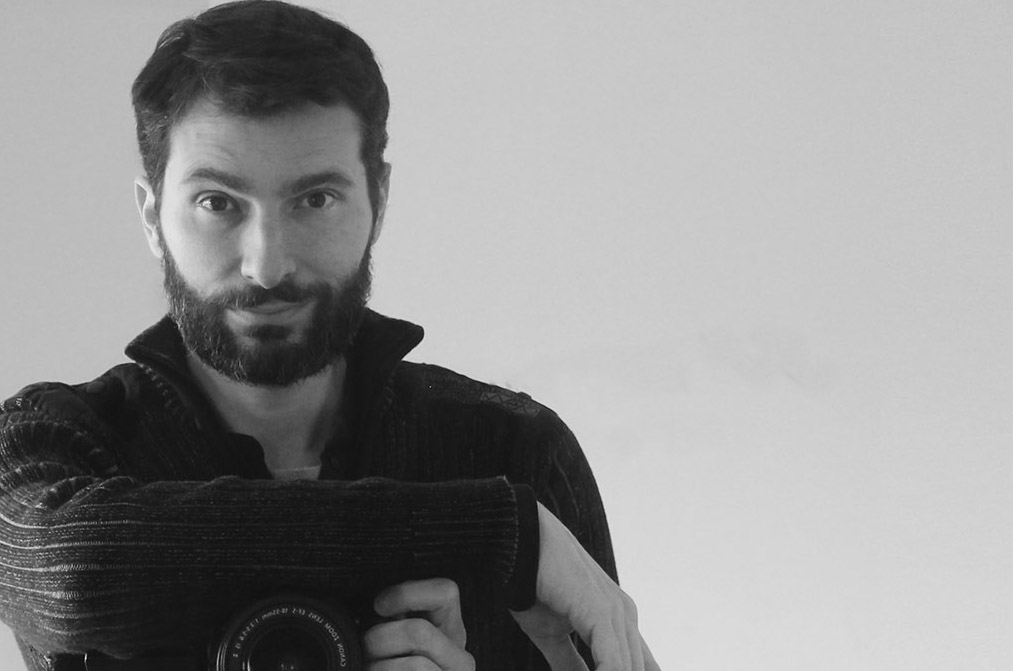
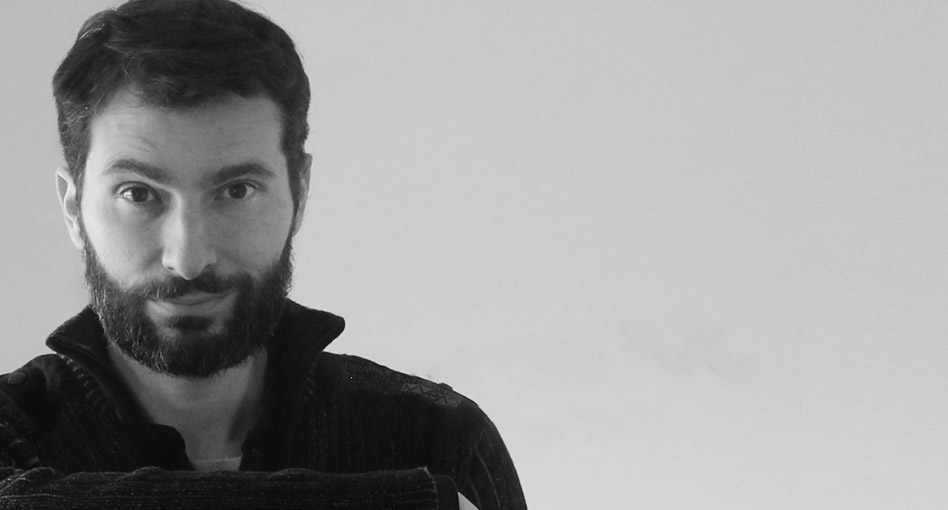
section about end

Changed region(s): [[0.0, 0.0, 0.673, 1.0], [0.1224, 0.9118, 0.153, 0.9412]]

diff --git a/assets/css/main.css b/assets/css/main.css
@@ -638,17 +638,28 @@ body {
 
 section.about {
   background-image: url(../img/about-bg.jpg);
-  background-position: center botton;
-  background-size: cover;
-  font-size: 60px;
-  font-weight: 400;
-  line-height: 1; }
+  background-position: center;
+  background-size: cover; }
   section.about h2 {
-    color: #8f8a8b; }
-  section.about h3 {
-    color: #8f8a8b; }
-  section.about h4 {
-    color: #8f8a8b; }
+    color: #8f8a8b;
+    font-size: 50px;
+    font-weight: 400;
+    line-height: 1;
+    margin-left: -180px;
+    margin-top: 0px;
+    text-align: right; }
+  section.about .home-lead {
+    color: #8f8a8b;
+    padding-bottom: 0px;
+    text-align: right; }
+
+@media (max-width: 640px) {
+  section.about {
+    position: cover; }
+    section.about h2, section.about .home-lead {
+      margin-left: auto;
+      margin-right: 2px;
+      max-width: 300px; } }
 
 .home-wrap {
   display: -webkit-box;
@@ -698,14 +709,19 @@ section.about {
   width: 50%;
   background: yellow; }
 
+.push-right {
+  margin-left: 330px; }
+
 @media (max-width: 640px) {
   .home-sections .flex {
     display: block; }
   .col-1 {
     max-width: 100%; }
   .col-50 {
-    width: auto; } }
+    width: auto; }
+  .push-right {
+    margin-left: 10px; } }
 
 .home-lead {
-  font-size: 36px;
-  line-height: 1.1; }
+  font-size: 30px;
+  line-height: 0.15; }

diff --git a/assets/css/3-sections/home-about.sass b/assets/css/3-sections/home-about.sass
@@ -1,16 +1,30 @@
 section.about
 	background:
 		image: url(../img/about-bg.jpg)
-		position: center botton
-		size: cover 
+		position: center 
+		size: cover
+	//color: #8f8a8b 
 
 	h2
 		color: #8f8a8b
-	h3 
+		font:
+			size: 50px
+			weight: 400
+		line-height: 1
+		margin-left: -180px
+		margin-top: 0px
+		text-align: right 
+
+	.home-lead
 		color: #8f8a8b
-	h4
-		color: #8f8a8b
-	font:
-		size: 60px
-		weight: 400
-	line-height: 1
+		padding-bottom: 0px
+		text-align: right
+	
+@media (max-width: 640px)
+	section.about 
+		h2, .home-lead
+			margin-left: auto
+			margin-right: 2px
+			max-width: 300px
+		background:
+		position: cover

diff --git a/_includes/section-about.html b/_includes/section-about.html
@@ -1,1 +1,1 @@
-<section class="about"><div class="flex flex--center"><div class="col-1"><p>s</p></div><div class="col-1"><h2>Manuel Docampo</h2><h3>Graphic Designer</h3><h4 class="home-lead">Web Developer</h4><h4 class="home-lead">Photograper</h4></div></div></section>
+<section class="about"><div class="flex flex--center"><div class="col-1 push-right"><h2>Manuel Docampo</h2><h4 class="home-lead">Graphic Designer</h4><h4 class="home-lead">Web Developer</h4><h4 class="home-lead">Photograper</h4></div></div></section>

diff --git a/assets/css/4-layouts/home.sass b/assets/css/4-layouts/home.sass
@@ -11,8 +11,6 @@
     section
         padding: 50px 0
 
-
-
     // flex classes
     .flex
         display: flex
@@ -43,6 +41,9 @@
     width: 50%
     background: yellow
 
+.push-right
+    margin-left: 330px
+
 @media (max-width: 640px)
     .home-sections .flex
         display: block
@@ -52,9 +53,13 @@
 
     .col-50
         width: auto
+    
+    .push-right
+        margin-left: 10px
+
 
 // Typography
 
 .home-lead
-    font-size: 36px
-    line-height: 1.1
+    font-size: 30px
+    line-height: 0.15
